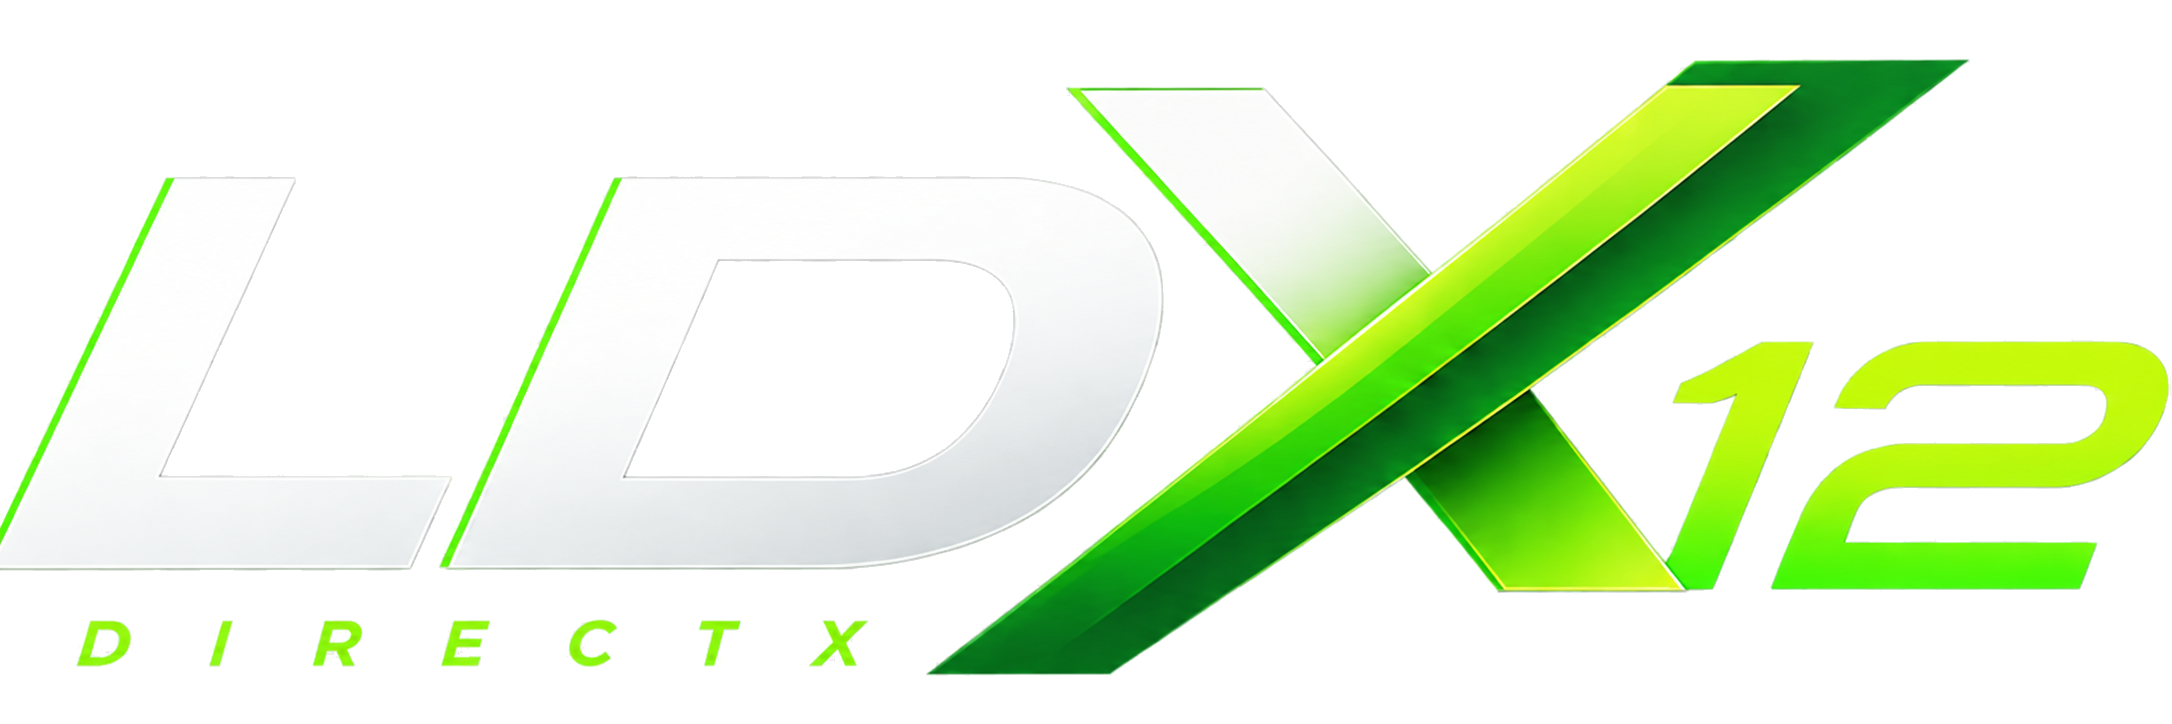
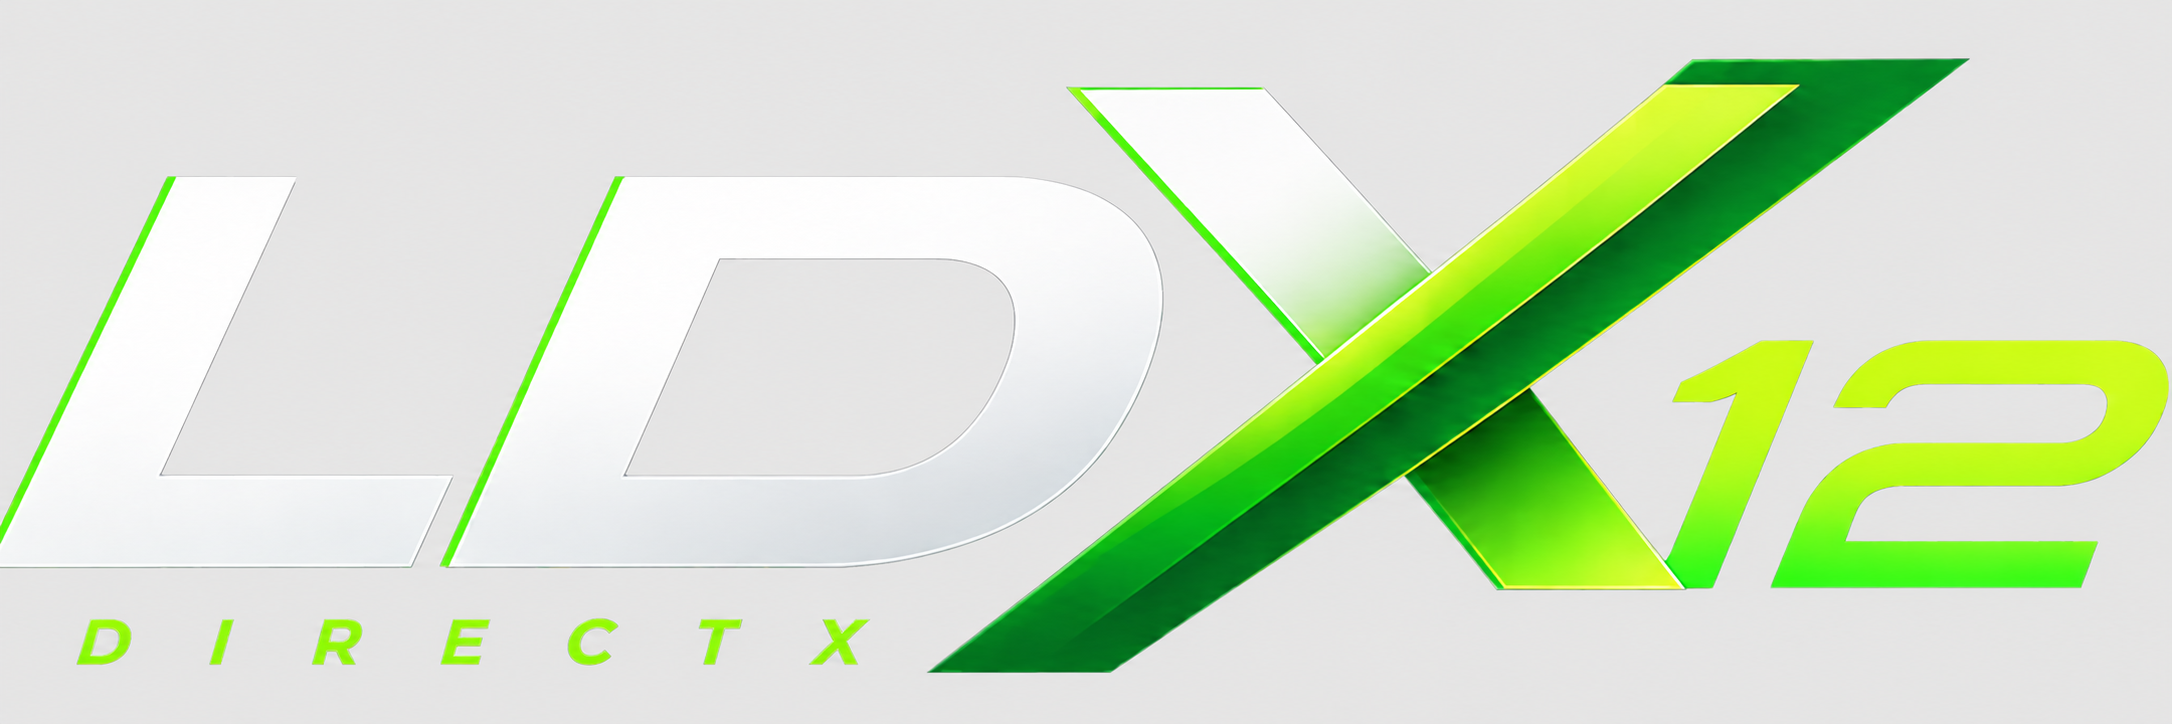
docs: document per-draw ring buffer uploads and refresh cube images

diff --git a/CHANGELOG.md b/CHANGELOG.md
@@ -2,6 +2,17 @@
 
 This file lists the main user-visible changes in each Ldx12 version.
 
+## 0.4.0 - Unreleased
+
+### Added
+
+- Added ring buffers to `CommandBuffer::SetConstantBuffer` for easy, fast per-draw constant-buffer uploads, with automatic offsets, typed HLSL `CB0.Load<T>()` / `CB1.Load<T>()` access and deferred reuse after GPU completion.
+- Added `21_ConstantBufferRings`, demonstrating per-object data in CB0 and a shared point light in CB1.
+
+### Changed
+
+- Updated the shared cube-logo texture with a light-gray background and refreshed the `06_TexturedCube` README screenshot.
+
 ## 0.3.1 - 2026-09-15
 
 ### Fixed
